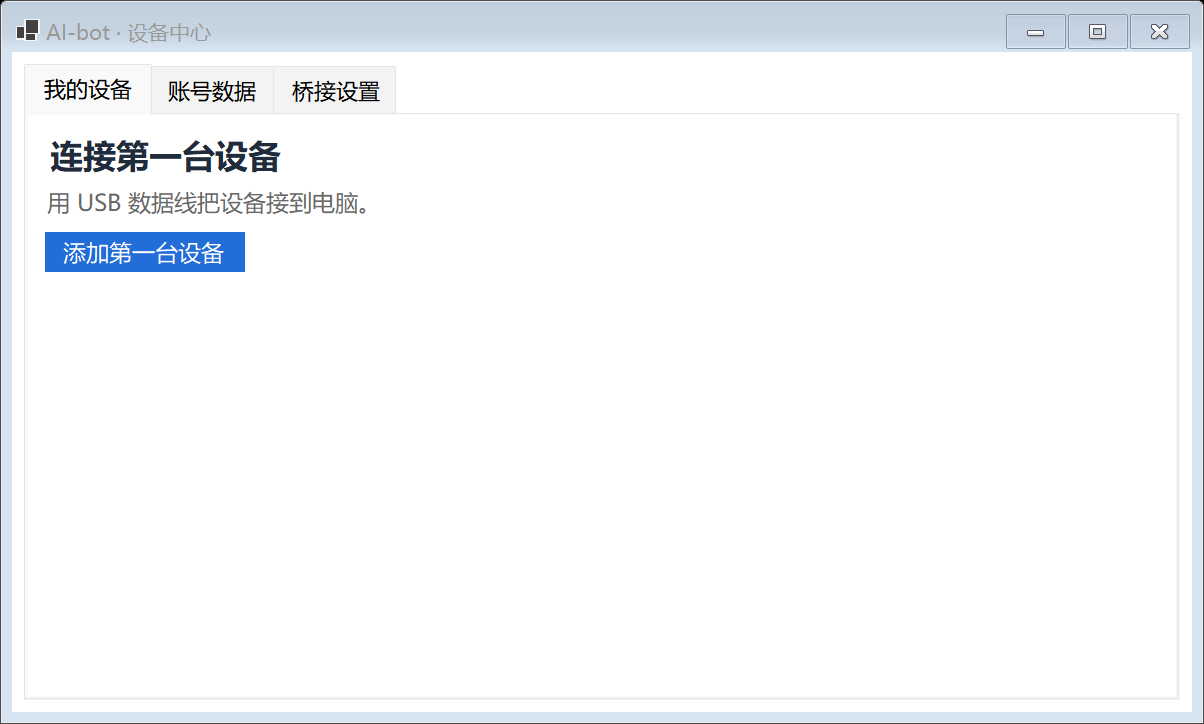
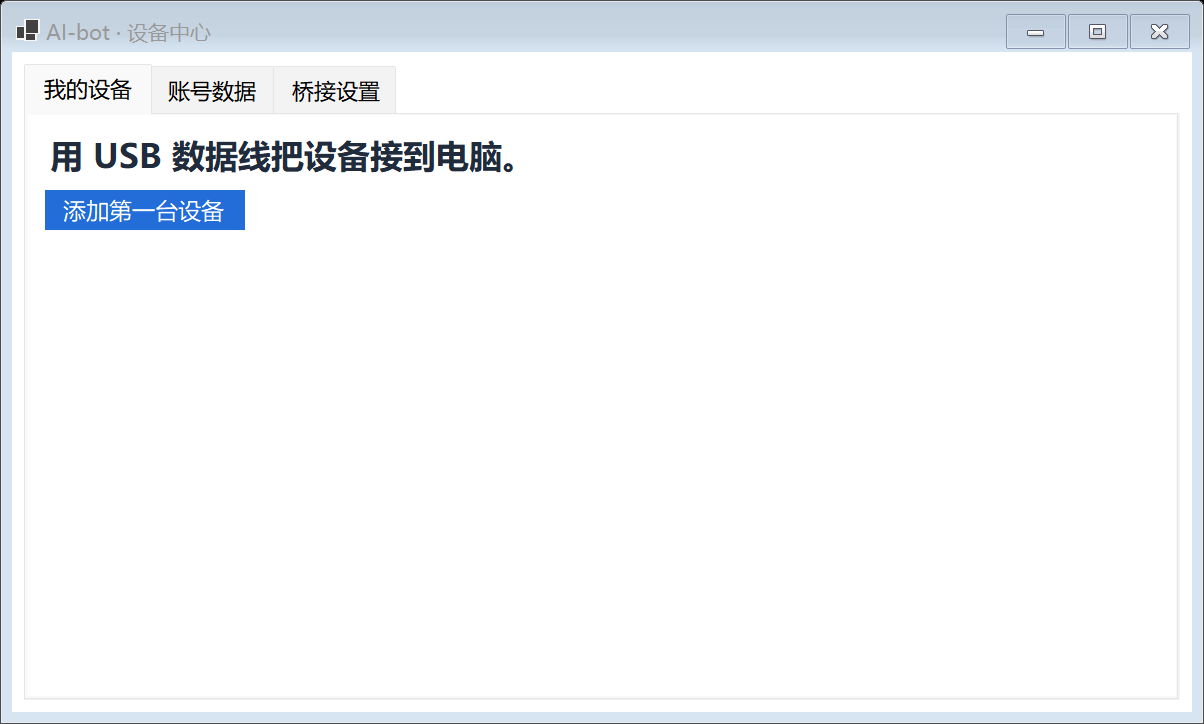
Use plain action labels for new device setup

Changed region(s): [[0.0307, 0.1823, 0.4302, 0.395]]

diff --git a/windows-app/AIBotBridge/AddDeviceForm.cs b/windows-app/AIBotBridge/AddDeviceForm.cs
@@ -33,7 +33,7 @@ internal sealed class AddDeviceForm : Form
         var layout=new TableLayoutPanel{Dock=DockStyle.Fill,ColumnCount=1,RowCount=2,Padding=new Padding(20)};
         layout.ColumnStyles.Add(new(SizeType.Percent,100));layout.RowStyles.Add(new(SizeType.Percent,100));layout.RowStyles.Add(new(SizeType.AutoSize));
         Controls.Add(layout);layout.Controls.Add(panel,0,0);
-        panel.Controls.Add(new Label{Text="用 USB 数据线连接设备，再选择型号。",AutoSize=true,ForeColor=SettingsWindow.Muted,Margin=new(0,4,0,8)});
+        panel.Controls.Add(new Label{Text="用 USB 数据线把屏幕接到电脑，再选设备型号。",AutoSize=true,ForeColor=SettingsWindow.Muted,Margin=new(0,4,0,8)});
         kind.Items.AddRange(choices.Cast<object>().ToArray());kind.SelectedIndex=0;
         var fields=new TableLayoutPanel{AutoSize=true,ColumnCount=2,RowCount=0,Margin=Padding.Empty};
         fields.ColumnStyles.Add(new(SizeType.AutoSize));fields.ColumnStyles.Add(new(SizeType.Percent,100));panel.Controls.Add(fields);
@@ -44,7 +44,7 @@ internal sealed class AddDeviceForm : Form
         portRow.ColumnStyles.Add(new(SizeType.Percent,100));portRow.ColumnStyles.Add(new(SizeType.AutoSize));portRow.RowStyles.Add(new(SizeType.AutoSize));portRow.Controls.Add(ports,0,0);Field("USB 设备",portRow);
         var status=new Label{Name="add-device-status",AutoSize=true,Visible=false,ForeColor=SettingsWindow.Muted,Margin=new(0,8,0,4)};
         status.TextChanged+=(_,_)=>status.Visible=status.Text.Length>0;
-        var add=DeviceCenterForm.Button("验证并添加",()=>{},true);add.Name="verify-add-device";
+        var add=DeviceCenterForm.Button("连接装过 AI-bot 的设备",()=>{},true);add.Name="verify-add-device";
         string? verifiedBootIdentity=null;
         void Refresh(){
             if(_busy)return;
@@ -56,14 +56,14 @@ internal sealed class AddDeviceForm : Form
                 int previous=Array.FindIndex(devices,d=>d.Identity.Equals(selected,StringComparison.OrdinalIgnoreCase));
                 ports.SelectedIndex=previous>=0?previous:selected is null&&devices.Length==1?0:-1;
                 if(verifiedBootIdentity is not null)
-                    status.Text=previous>=0?"启动检查通过。请点「验证并添加」。":"启动检查通过。请重新连接刚安装的 TAB5，再点「刷新设备」。";
+                    status.Text=previous>=0?"":"请重新接上刚安装的设备，再点「刷新设备」。";
                 else status.Text=devices.Length==0?"未找到 USB 设备。请接好数据线，再点「刷新设备」。":
                     ports.SelectedItem is null?"请选择这台设备的 USB 端口。不确定时可拔插后刷新。":"";
             }catch(Exception ex){ports.DataSource=Array.Empty<FlashUsbDevice>();status.Text="扫描失败，请重试："+ex.Message;}
             add.Enabled=ports.SelectedItem is FlashUsbDevice;
         }
         var refresh=DeviceCenterForm.Button("刷新设备",Refresh);refresh.Margin=new(8,0,0,0);portRow.Controls.Add(refresh,1,0);
-        var install=DeviceCenterForm.Button("首次安装固件…",()=>{});install.Name="first-install-device";
+        var install=DeviceCenterForm.Button("在设备上安装 AI-bot",()=>{});install.Name="first-install-device";
         install.Click+=async(_,_)=>{try{
             if(preview)return;
             var model=((Choice)kind.SelectedItem!).Kind;
@@ -78,20 +78,15 @@ internal sealed class AddDeviceForm : Form
             }
             Refresh();
         }catch(Exception ex){status.Text=ex.Message;}};
-        var routes=new TableLayoutPanel{AutoSize=true,Dock=DockStyle.Fill,ColumnCount=2,RowCount=3,Margin=new(0,12,0,0)};
+        var routes=new TableLayoutPanel{AutoSize=true,Dock=DockStyle.Fill,ColumnCount=2,RowCount=1,Margin=new(0,12,0,0)};
         routes.ColumnStyles.Add(new(SizeType.Percent,50));routes.ColumnStyles.Add(new(SizeType.Percent,50));
-        for(int row=0;row<routes.RowCount;row++)routes.RowStyles.Add(new(SizeType.AutoSize));
-        var next=new Label{Text="设备屏幕上有 AI-bot 吗？",AutoSize=true,Font=SettingsWindow.SectionFont(),Margin=new(0,0,0,12)};
-        routes.Controls.Add(next,0,0);routes.SetColumnSpan(next,2);
-        foreach(var (column,title,button) in new[]{
-            (0,"有，显示 AI-bot",add),
-            (1,"没有显示 AI-bot",install)}){
-            routes.Controls.Add(new Label{Text=title,AutoSize=true,ForeColor=SettingsWindow.Muted,Margin=new(0,0,12,8)},column,1);
-            button.Anchor=AnchorStyles.Left;button.Margin=new(0,0,12,0);routes.Controls.Add(button,column,2);
+        routes.RowStyles.Add(new(SizeType.AutoSize));
+        foreach(var (column,button) in new[]{(0,add),(1,install)}){
+            button.Anchor=AnchorStyles.Left;button.Margin=new(0,0,12,0);routes.Controls.Add(button,column,0);
         }
         panel.Controls.Add(status);
         panel.Controls.Add(routes);
-        var guide=new LinkLabel{Text="首次添加图文指南与固件下载",AutoSize=true,Margin=new(0,12,0,8)};
+        var guide=new LinkLabel{Text="首次添加图文指南",AutoSize=true,Margin=new(0,12,0,8)};
         guide.LinkClicked+=(_,_)=>{try{System.Diagnostics.Process.Start(new System.Diagnostics.ProcessStartInfo("https://github.com/yaoyouzhong/AI-bot/blob/main/docs/FIRST-INSTALL.zh.md#windows-first-device"){UseShellExecute=true});}catch(Exception ex){status.Text="无法打开安装指南："+ex.Message;}};
         var actionsFooter=new TableLayoutPanel{AutoSize=true,Dock=DockStyle.Fill,ColumnCount=2,RowCount=1,Margin=Padding.Empty};
         actionsFooter.Margin=new(0,12,0,0);
@@ -100,7 +95,7 @@ internal sealed class AddDeviceForm : Form
         var closeButton=DeviceCenterForm.Button("关闭",()=>Close());closeButton.Anchor=AnchorStyles.Right;actionsFooter.Controls.Add(closeButton,1,0);layout.Controls.Add(actionsFooter,0,1);CancelButton=closeButton;
         ports.SelectedIndexChanged+=(_,_)=>{add.Enabled=!_busy&&ports.SelectedItem is FlashUsbDevice;if(add.Enabled)status.Text="";};
         ports.SelectionChangeCommitted+=(_,_)=>verifiedBootIdentity=null;
-        kind.SelectedIndexChanged+=(_,_)=>{verifiedBootIdentity=null;install.Text=((Choice)kind.SelectedItem!).Kind==HardwareKind.Tab5?"TAB5 首次安装…":"ESP8266 首次安装…";Refresh();};
+        kind.SelectedIndexChanged+=(_,_)=>{verifiedBootIdentity=null;Refresh();};
         async Task AddAsync(FlashUsbDevice device,UsbDeviceInfo? verifiedEsp=null) {
             if(_busy||preview)return;var selected=(Choice)kind.SelectedItem!;
             if(registry.Devices.Any(d=>d.Kind==selected.Kind)){status.Text="此型号已添加，请在设备中心管理现有设备。";return;}
@@ -126,7 +121,6 @@ internal sealed class AddDeviceForm : Form
         add.Click+=async(_,_)=> {
             if(ports.SelectedItem is FlashUsbDevice device) await AddAsync(device);
         };
-        install.Text=((Choice)kind.SelectedItem!).Kind==HardwareKind.Tab5?"TAB5 首次安装…":"ESP8266 首次安装…";
         FormClosing+=(_,e)=>{if(_busy){_stop.Cancel();e.Cancel=true;status.Text="正在取消验证，请稍候再关闭。";}};Refresh();SettingsWindow.FitScreen(this);ResumeLayout(true);
     }
     private sealed record Choice(HardwareKind Kind,string Label);

diff --git a/windows-app/AIBotBridge/DeviceCenterSelfTest.cs b/windows-app/AIBotBridge/DeviceCenterSelfTest.cs
@@ -184,7 +184,7 @@ internal static class DeviceCenterSelfTest
                 continue;
             }
             var choices=Descendants(add).OfType<ComboBox>().First();Check(choices.Items.Count==2-registered.Length,"Already registered model offered for addition");
-            if(registered.Length==1)Check(Descendants(add).OfType<Button>().Any(b=>b.Text==(registered[0].Kind==HardwareKind.Tab5?"ESP8266 首次安装…":"TAB5 首次安装…")),"First installation missing for unregistered model");
+            if(registered.Length==1)Check(Descendants(add).OfType<Button>().Any(b=>b.Name=="first-install-device"&&b.Text=="在设备上安装 AI-bot"),"First installation missing for unregistered model");
         }
         CheckAddDiscovery(directory);
         using(var shared=new SettingsForm(BridgeSettings.CreatePublicSelfTestSettings(),false)){Capture(shared,directory,"shared-settings");Check(!Descendants(shared).OfType<Label>().Any(l=>l.Text.Contains("屏保")||l.Text.StartsWith("串口")),"Legacy fields exposed in shared settings");}
@@ -220,6 +220,7 @@ internal static class DeviceCenterSelfTest
             var ports=(ComboBox)form.Controls.Find("add-device-ports",true).Single();
             var add=(Button)form.Controls.Find("verify-add-device",true).Single();
             var install=(Button)form.Controls.Find("first-install-device",true).Single();
+            Check(add.Text=="连接装过 AI-bot 的设备"&&install.Text=="在设备上安装 AI-bot","Add Device should offer concrete actions");
             var refresh=Descendants(form).OfType<Button>().Single(b=>b.Text=="刷新设备");
             Check(!add.Enabled&&ports.SelectedItem is null,"Empty discovery must not offer verification");
             Check(install.Enabled,"Factory firmware cannot be required to pass AI-bot USB verification");

diff --git a/windows-app/AIBotBridge/DeviceCenterForm.cs b/windows-app/AIBotBridge/DeviceCenterForm.cs
@@ -96,7 +96,7 @@ internal sealed class DeviceCenterForm : Form
         else if(_deviceLayout.ColumnStyles[0].Width==0)_deviceLayout.ColumnStyles[0].Width=184;
         _detail.SuspendLayout();_detail.Controls.Remove(_health);_detail.Controls.Remove(_connection);_detail.Controls.Remove(_transport);Clear(_detail);_actions.Clear();_manage.Items.Clear();
         if(Selected is not { } d) {
-            Heading(_detail,"连接第一台设备");Note(_detail,"用 USB 数据线把设备接到电脑。");
+            Heading(_detail,"用 USB 数据线把设备接到电脑。");
             _detail.Controls.Add(Button("添加第一台设备",_add,true));
         } else {
             var heading=new TableLayoutPanel{AutoSize=true,ColumnCount=2,RowCount=1,Margin=new Padding(0,0,0,6)};

diff --git a/docs/FIRST-INSTALL.zh.md b/docs/FIRST-INSTALL.zh.md
@@ -32,9 +32,9 @@
 
    ![Windows 设备中心首次打开时，显示 USB 接线提示和「添加第一台设备」](assets/screens/first-device-start.png)
 
-2. **选择设备型号，回答「设备屏幕上有 AI-bot 吗？」** 有就点 **验证并添加**；没有就点对应型号的 **首次安装…**。只有一个可选 USB 设备时，程序会自动选中。
+2. **选择设备型号。** 以前给这台设备装过 AI-bot，就点 **连接装过 AI-bot 的设备**。如果 AI-bot 只装在电脑上，设备还没有安装过，就点 **在设备上安装 AI-bot**。只有一个可选 USB 设备时，程序会自动选中。
 
-   ![Windows 添加窗口根据设备屏幕是否显示 AI-bot 给出两个入口](assets/screens/add-device.png)
+   ![Windows 添加窗口可以连接装过 AI-bot 的设备，也可以在设备上安装 AI-bot](assets/screens/add-device.png)
 
    USB 列表为空时，检查数据线和接口，再点「刷新设备」。有多个端口时，拔插自己的设备并刷新，核对出现的端口。出厂设备可以直接打开首次安装窗口，按里面的步骤接线或进入下载模式。
 
@@ -61,7 +61,7 @@
 ### 路线 A：设备已经有 AI-bot
 
 1. 用 USB 数据线连接设备，等它启动到 AI-bot 界面。
-2. **Windows：** 点 **添加第一台设备**，选型号，确认 USB 设备，再点 **验证并添加**。TAB5 在这一步完成 USB 配对。添加后若要改名，在设备中心选中设备，打开 **管理 → 修改名称**。
+2. **Windows：** 点 **添加第一台设备**，选型号，确认 USB 设备，再点 **连接装过 AI-bot 的设备**。只要能通过 USB 验证，设备上的旧版也可以连接。TAB5 在这一步完成 USB 配对。添加后若要改名，在设备中心选中设备，打开 **管理 → 修改名称**。
 3. **Mac：** 设备中心 → **＋ 添加设备**，选型号后点 **保存**。TAB5 会打开 **USB 配对**，点 **刷新设备**，选本机端口，再点 **配对**；看到 **配对已完成** 即可。ESP8266 添加后检查设备中心的 USB 状态。
 
 <a id="tab5-setup"></a>
@@ -71,7 +71,7 @@
 
 **Windows · 三步**
 
-1. **连接。** 在 **添加** 窗口点 **M5Stack TAB5 → TAB5 首次安装…**。接好 USB-C 数据线，长按 **RESET** 约 2 秒，内部绿灯快闪时松开。程序会自动检测，只有需要区分设备时才显示端口列表。[M5Stack 官方图解](https://docs.m5stack.com/zh_CN/guide/tab5/restore_factory)
+1. **连接。** 在 **添加** 窗口选 **M5Stack TAB5**，点 **在设备上安装 AI-bot**。接好 USB-C 数据线，长按 **RESET** 约 2 秒，内部绿灯快闪时松开。程序会自动检测，只有需要区分设备时才显示端口列表。[M5Stack 官方图解](https://docs.m5stack.com/zh_CN/guide/tab5/restore_factory)
 2. **安装。** 点 **安装 AI-bot**，程序会下载并校验官方固件。在 **确认写入固件** 中核对设备和版本后确认。保持供电和数据线连接，等待 **写入校验通过**。
 
    ![检测到一台 TAB5 后，蓝色按钮显示「安装 AI-bot」](assets/screens/tab5-first-install.png)
@@ -93,7 +93,7 @@
 
 **Windows · 三步**
 
-1. **连接。** 在 **添加** 窗口点 **ESP8266 小屏 → ESP8266 首次安装…**，用 USB 数据线把小屏接到电脑。看到 **USB 设备已连接** 就可以继续。
+1. **连接。** 在 **添加** 窗口选 **ESP8266 小屏**，点 **在设备上安装 AI-bot**。用 USB 数据线把小屏接到电脑，看到 **USB 设备已连接** 就可以继续。
 2. **安装。** 点 **安装 AI-bot**，程序会自动下载并校验官方固件。在 **确认写入固件** 中核对目标设备后确认。保持连接，等待 **写入校验通过，原固件已备份**。
 
    ![连接小屏后点「安装 AI-bot」](assets/screens/esp-first-install.png)
